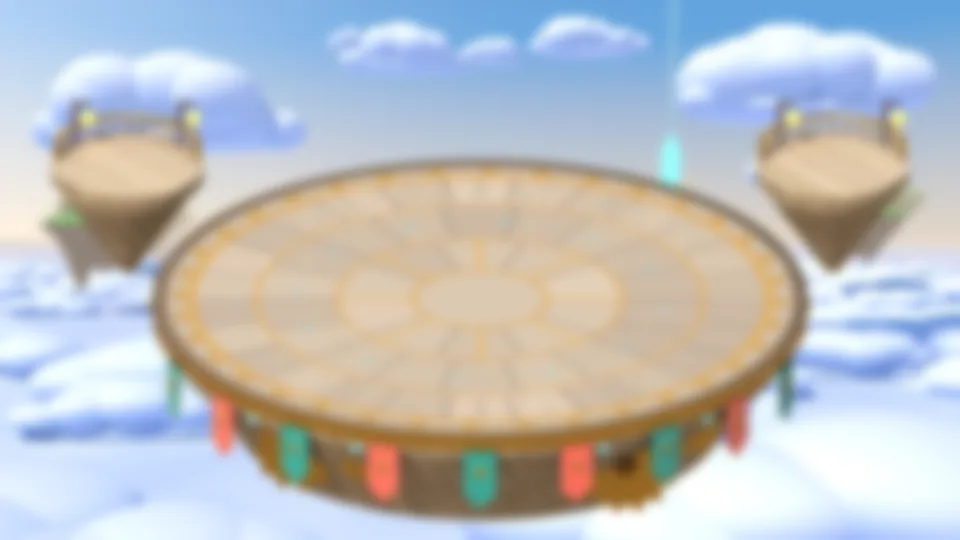
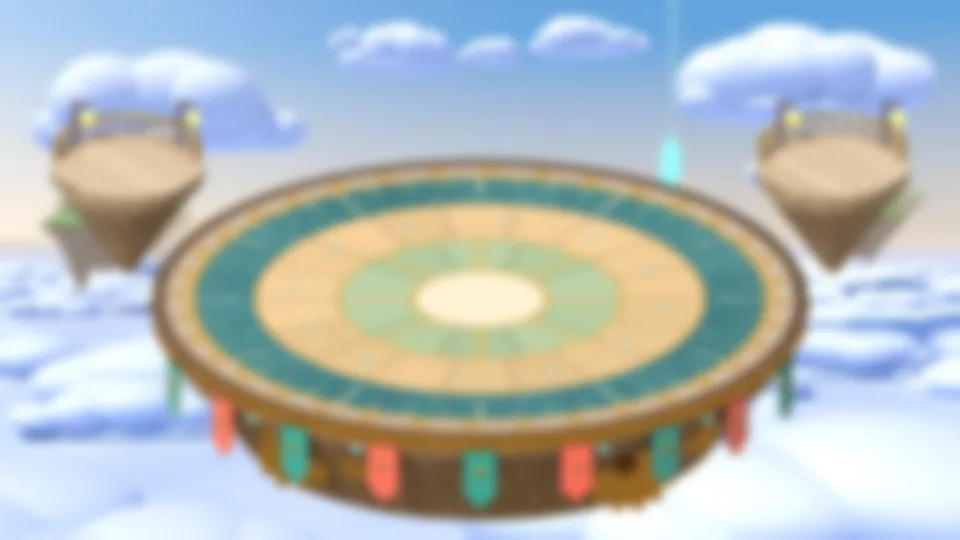
Clean-polish pass: slimmer outlines, calmer dial, dressed title islet
- Text outlines capped at ~1/14 of the size with a soft drop shadow
  (replaces heavy cartoon strokes everywhere)
- Orbit Dial: no additive glow or orbiting sparkles; ink numeral
- Dialog box: flat NPC-colour name pill, no outlines
- Title: cast grouped closer; the lower-left islet now holds a flower
  cart under a tree with bushes and grass (re-rendered)
- Orbit Dodge platform re-rendered with the bold ring colours

Claude-Session: https://claude.ai/code/session_01SaCmMRmT6ous3ZUywnLqEj

Changed region(s): [[0.1875, 0.2963, 0.8125, 0.8], [0.4375, 0.8296, 0.4688, 0.8593]]

diff --git a/src/game/board/OrbitDial.ts b/src/game/board/OrbitDial.ts
@@ -1,7 +1,7 @@
 import Phaser from 'phaser';
 import { audio } from '../audio/AudioManager';
 import type { Character } from '../characters/Character';
-import { COLORS, CSS, DEPTH, DIAL_MAX, GAME_HEIGHT, GAME_WIDTH } from '../constants';
+import { CSS, DEPTH, DIAL_MAX, GAME_HEIGHT, GAME_WIDTH } from '../constants';
 import type { EffectsManager } from '../effects/EffectsManager';
 import type { Controls } from '../input/Controls';
 import { addText } from '../ui/theme';
@@ -23,29 +23,17 @@ export class OrbitDial {
     const x = token.x;
     const y = token.y - 300;
     const root = s.add.container(x, y).setDepth(DEPTH.worldUi + 50);
-    const glow = s.add.image(0, 0, 'fx-dot').setScale(14).setTint(COLORS.goldLight).setAlpha(0.5).setBlendMode(Phaser.BlendModes.ADD);
     // The hovering dial casts a soft shadow on the ground at the hero's feet.
     const shadow = s.add.image(24, 318, 'fx-shadow').setScale(2.8, 0.7).setAlpha(0.6);
     // The world dims around the hero while the dial spins (a spotlight centred on the screen).
     const dim = s.add.image(GAME_WIDTH / 2, GAME_HEIGHT / 2, 'fx-spot').setScrollFactor(0).setDisplaySize(GAME_WIDTH * 1.5, GAME_HEIGHT * 1.5).setDepth(DEPTH.worldUi + 40).setAlpha(0);
     s.tweens.add({ targets: dim, alpha: 1, duration: 300 });
-    // Glowing motes orbiting the medallion.
-    const sparks = [0, 1, 2, 3].map((i) => s.add.image(0, 0, 'fx-dot').setScale(i % 2 ? 0.7 : 1.0).setTint(i === 1 ? 0xc49bff : i === 3 ? COLORS.goldLight : COLORS.crystal).setBlendMode(Phaser.BlendModes.ADD));
-    const drawOrbits = (t: number) => {
-      sparks.forEach((sp, i) => {
-        const a = t * (2.2 + i * 0.4) + (i * Math.PI * 2) / 4;
-        sp.setPosition(Math.cos(a) * 150, Math.sin(a) * 54 - 10).setAlpha(0.6 + 0.4 * Math.sin(a * 2));
-      });
-    };
-    drawOrbits(0);
     const rendered = s.textures.exists('rendered-ui-dial');
     const ring = rendered ? s.add.image(0, 0, 'rendered-ui-dial').setDisplaySize(236, 236) : s.add.image(0, 0, 'orbit-dial').setScale(0.52);
     // A darker copy just below reads as the medallion's thickness (a coin edge), not a flat decal.
     const edge = s.add.image(0, 10, ring.texture.key).setDisplaySize(ring.displayWidth, ring.displayHeight).setTint(0x6a4a1c);
-    const num = addText(s, 0, -4, '1', 108, { color: CSS.tealDeep, weight: 700, fixed: true, stroke: '#ffffff', strokeThickness: 10 });
-    root.add([shadow, glow, edge, ring, ...sparks, num]);
-    const orbitT = { t: 0 };
-    const orbitTween = s.tweens.add({ targets: orbitT, t: Math.PI * 20, duration: 20000, repeat: -1, onUpdate: () => drawOrbits(orbitT.t) });
+    const num = addText(s, 0, -4, '1', 108, { color: '#1f2940', weight: 700, fixed: true });
+    root.add([shadow, edge, ring, num]);
     root.setScale(0.1);
     token.play('dial');
     audio.play('pop', { rate: 0.8 });
@@ -129,7 +117,6 @@ export class OrbitDial {
       await new Promise<void>((r) => s.time.delayedCall(350, () => r()));
     }
     token.play('celebrate');
-    orbitTween.stop();
     setDebugInfo('dialShown', false);
     s.tweens.add({ targets: dim, alpha: 0, duration: 320, onComplete: () => dim.destroy() });
     await new Promise<void>((r) =>

diff --git a/src/game/ui/theme.ts b/src/game/ui/theme.ts
@@ -30,15 +30,21 @@ export function textStyle(size: number, o: TextOpts = {}): Phaser.Types.GameObje
     align: o.align ?? 'center',
   };
   if (o.stroke) {
+    // Outlines stay slim (about 1/14 of the size) whatever a call site asks for; a soft drop
+    // shadow carries the legibility instead of a heavy cartoon stroke.
+    const cap = Math.max(2, Math.round(px / 14));
     style.stroke = o.stroke;
-    style.strokeThickness = o.strokeThickness ?? Math.max(2, Math.round(px / 9));
+    style.strokeThickness = Math.min(o.strokeThickness ?? cap, cap);
+    if (!o.shadow) {
+      style.shadow = { offsetX: 0, offsetY: Math.max(2, Math.round(px / 20)), color: 'rgba(10,17,32,0.35)', blur: Math.max(3, Math.round(px / 9)), fill: true, stroke: true };
+    }
   }
   if (o.shadow) {
     style.shadow = {
       offsetX: 0,
       offsetY: Math.max(2, Math.round(px / 14)),
-      color: typeof o.shadow === 'string' ? o.shadow : 'rgba(20,12,40,0.45)',
-      blur: 0,
+      color: typeof o.shadow === 'string' ? o.shadow : 'rgba(10,17,32,0.4)',
+      blur: Math.max(3, Math.round(px / 9)),
       fill: true,
       stroke: true,
     };

diff --git a/src/game/scenes/TitleScene.ts b/src/game/scenes/TitleScene.ts
@@ -95,10 +95,10 @@ export class TitleScene extends Phaser.Scene {
     }
     // Staggered in depth (not a police line-up); nearer heroes a touch larger, added back to front.
     const spots: [number, number][] = [
-      [-345, 716],
-      [-140, 664],
-      [85, 704],
-      [320, 672],
+      [-290, 712],
+      [-108, 666],
+      [82, 702],
+      [262, 670],
     ];
     const made = CHARACTER_IDS.map((id, i) => {
       const [x, y] = spots[i];

diff --git a/scripts/art/scenes.py b/scripts/art/scenes.py
@@ -178,6 +178,15 @@ def title():
     wood = lib.MeshBuilder()
     rocks = lib.MeshBuilder()
     vines = lib.MeshBuilder()
+    # the bottom-left islet is a little scene of its own: a flower cart under a tree, bushes and grass
+    props.flower_cart(250, 902, 0.95)
+    terrain.tree_round(leaves, wood, 92, 888, rnd, 0.95)
+    terrain.bush(leaves, 392, 926, rnd, 1.0, berries=flowers)
+    terrain.bush(leaves, 150, 940, rnd, 0.8, berries=flowers)
+    terrain.flower_bed(flowers, leaves, 330, 944, rnd)
+    for _ in range(70):
+        a, r = rnd.uniform(0, math.tau), math.sqrt(rnd.random())
+        terrain.grass_tuft(grass, 250 + math.cos(a) * r * 200, 905 + math.sin(a) * r * 48, rnd, rnd.uniform(0.9, 1.3))
     poly = Image.new('L', (SW // 4, SH // 4), 0)
     ImageDraw.Draw(poly).polygon([(x / 4, y / 4) for x, y in outline], fill=255)
     pm_arr = np.asarray(Image.open(pm), np.float32) / 255.0
